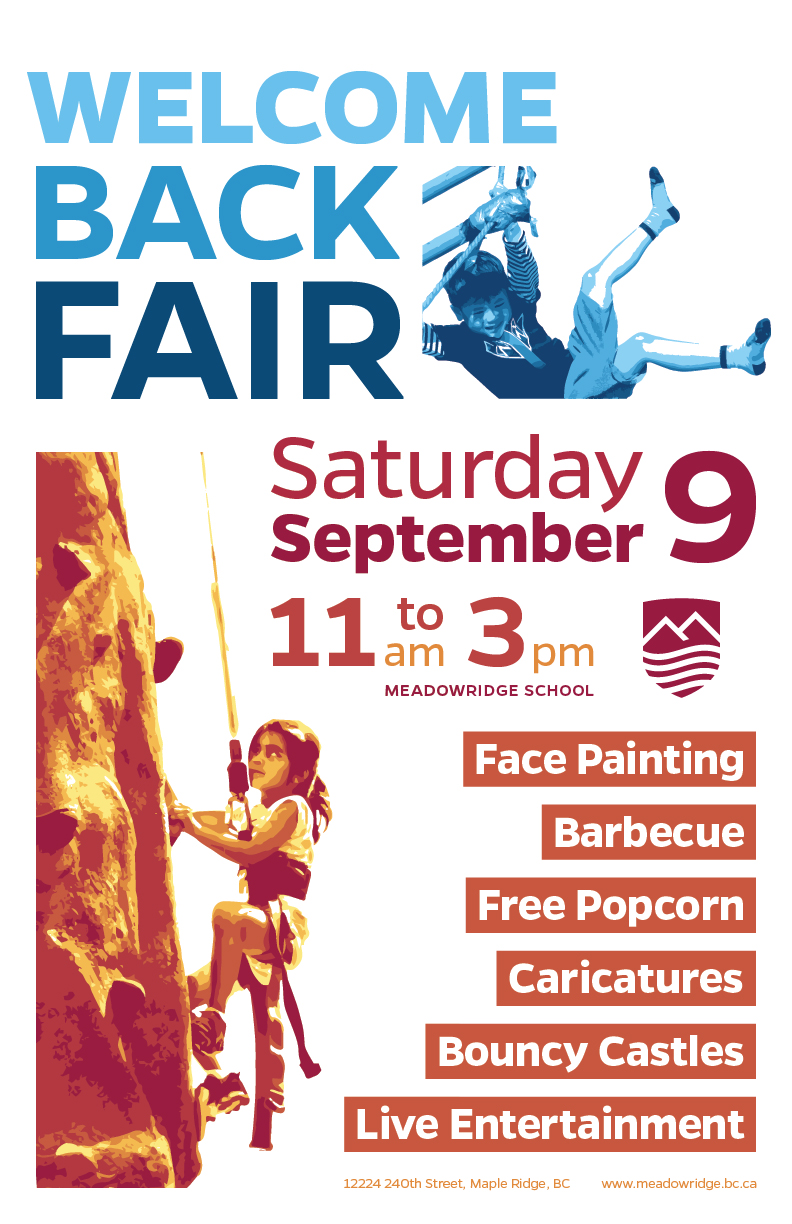
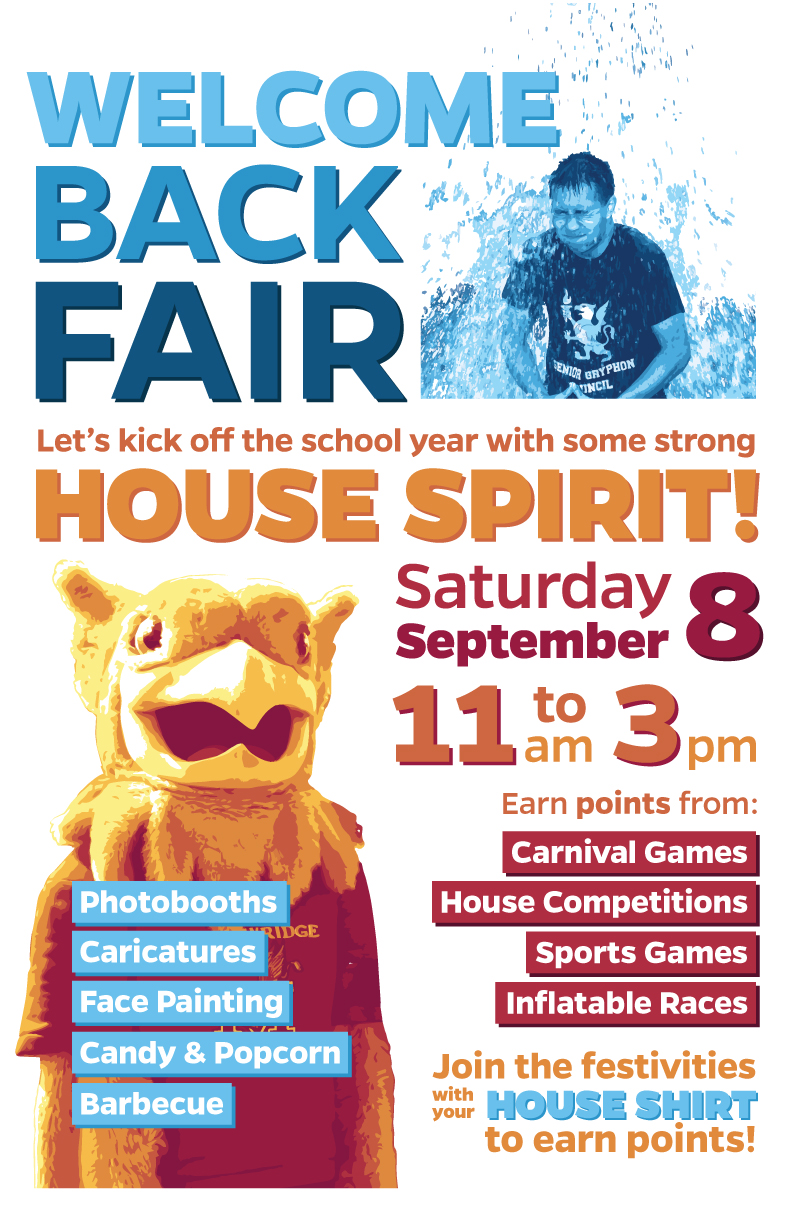
Updated for grad

diff --git a/index.html b/index.html
@@ -37,14 +37,19 @@
 					<p>Place</p>
 				</a>
 
-				<a href='#jeti-rentals'>
-					<p>Website</p>
-					<p>Jeti Rentals</p>
+				<a href='#gryphon-cover'>
+					<p>Cover</p>
+					<p>The Gryphon</p>
 				</a>
 
 				<a href='#wbf'>
 					<p>Poster</p>
 					<p>Welcome Back Fair</p>
+				</a>
+
+				<a href='#jeti-rentals'>
+					<p>Website</p>
+					<p>Jeti Rentals</p>
 				</a>
 
 				<a href='#about'>
@@ -69,14 +74,19 @@
 							<p>Place</p>
 						</a>
 
-						<a class='med-project' href='#jeti-rentals'>
-							<p>Website</p>
-							<p>Jeti Rentals</p>
+						<a class='med-project' href='#gryphon-cover'>
+							<p>Cover</p>
+							<p>The Gryphon</p>
 						</a>
 
 						<a class='med-project' href='#wbf'>
 							<p>Poster</p>
 							<p>Welcome Back Fair</p>
+						</a>
+
+						<a class='med-project' href='#jeti-rentals'>
+							<p>Website</p>
+							<p>Jeti Rentals</p>
 						</a>
 					</div>
 				</div>
@@ -106,14 +116,19 @@
 							<p>Place</p>
 						</a>
 
-						<a href='#jeti-rentals-thin'>
-							<p>Website</p>
-							<p>Jeti Rentals</p>
+						<a href='#gryphon-cover-thin'>
+							<p>Cover</p>
+							<p>The Gryphon</p>
 						</a>
 
 						<a href='#wbf-thin'>
 							<p>Poster</p>
 							<p>Welcome Back Fair</p>
+						</a>
+
+						<a href='#jeti-rentals-thin'>
+							<p>Website</p>
+							<p>Jeti Rentals</p>
 						</a>
 
 						<a href='#about-thin'>
@@ -181,6 +196,32 @@
 					</figure>
 				</section>
 
+				<section id='gryphon-cover'>
+					<figure>
+						<div class='img-row'>
+							<div class='img-column'>
+								<img src='img/cover.jpg'>
+							</div>
+							<div class='img-column'>
+								<img src='img/back.jpg'>
+							</div>
+						</div>
+						<figcaption>Cover &amp; Back</figcaption>
+					</figure>
+
+					<!--
+					<figure>
+						<img src='img/printed.jpg'>
+						<figcaption>Printed Magazine</figcaption>
+					</figure>
+					-->
+				</section>
+
+				<section id='wbf'>
+					<!-- no figure here because only one image -->
+					<img class='bordered-img' src='img/wbf-poster.jpg'>
+				</section>
+
 				<section id='jeti-rentals'>
 					<figure>
 						<div class='img-row'>
@@ -209,17 +250,12 @@
 					</figure>
 				</section>
 
-				<section id='wbf'>
-					<!-- no figure here because only one image -->
-					<img class='bordered-img' src='img/wbf-poster.jpg'>
-				</section>
-
 				<section id='about'>
+					<!-- TODO ensure the same as below -->
 					<h2>Hi, I'm Thomas Laurie</h2>
-					<p>I’m a generalist with experience in web and app development, visual design, 3D modeling, and coding, though I’m still dipping my toes in different fields in search of my passion. </p>
-					<p>My two biggest strengths are communicative design and my technical understanding of web/app interfaces.</p>
-					<p>This term I've decided to embrace these two directions by furthering my studies in speculative design and PHP so that I have both the ideological foundation and ability to execute an upcoming web/app project - start to finish, front to back.</p>
-					<p>It’s my goal to find a profession where I can be a creative force, where I can have the freedom to broaden my experience and deepen my expertise in the field.</p>
+					<p>I'm a recent graduate with skills in web/app development, visual representation, and 3D modelling. It is my goal to find a career where I can be a creative force.</p>
+					<p>Lately I've been motivated to fulfill my own user-needs in today's app landscape. These needs tend to be music related, ranging from discovery and listening, to organization and metadata. I have enough confidence that with enough time and effort I could personally build my envisioned solutions.</p>
+					<p>Currently I've been working on one of these ideas as a personal project, additionally aiming to tie up my educational learnings into a polished, full-stack web app. With this I want to express my ability to code, debug, and understand technical systems, and showcase my design skills, understanding of user experience, and artistic creativity. I've chosen to not just rely on what I already know but also to seek out the best tools for my use case, this has lead me to pick up Node, PostgreSQL, Vue, and a larger knowledge of modern JavaScript.</p>
 				</section>
 			</div>
 		</div>
@@ -269,9 +305,51 @@
 					</div>
 
 					<p>Place was a mobile application for new home buyers designed to reduce the workload of searching home listings by parsing data based on user settings and then presenting matches to the user in a hot-or-not fashion.</p>
-					<p>My group and I ideated and designed the front-end functionality of the app using Proto.io where my main contribution to the project was the visual design of the app.</p>
+					<p>My group and I ideated and designed the front-end functionality of the app using Proto.io, my main contribution to the project was the visual design of the app.</p>
 					<p>Through user research we found that home buyers faced a much larger workload if they want to know what amenities are near each listing. Classifieds sites give information about the interior of the home but seldom give information about the place surrounding the home. Manually searching maps for this information greatly increases the workload. Our solution was to flip the harder area-searching workload onto the app and let the users do the more interactive sorting of listings, ones that they know will be in a place that meets their needs.</p>
 					<p>In this project I learned how to optimize task-flows by designing interfaces to better match a user’s mental model of the system and decrease the number of actions required to perform a task.</p>
+				</section>
+
+				<section id='gryphon-cover-thin'>
+					<h3>Magazine Cover</h3>
+					<h2>The Gryphon</h2>
+
+					<div class='merge slider'>
+						<button class='prev'><div></div><div></div><div></div><div></div></button>
+						<button class='next'><div></div><div></div><div></div><div></div></button>
+						<div class='hider'>
+							<div class='sliderTray'>
+								<img src='img/cover.jpg'>
+								<img src='img/back.jpg'>
+								<!-- TODO printed photo-->
+							</div>  
+						</div>
+					</div>
+
+					<p>This cover was for a school magazine called The Gryphon printed three times a year and mailed to over 300 families and friends of the school. This volume was to highlight the school's outdoor education program, therefore my final iteration resembles the motion of aiding growth, which links together the slogan, education, and gardening (a common outdoor activity for the primary school students).</p>
+					<p>I was individually assigned to create graphics for the cover and back. Expectations where fairly open ended where I was only prompted with the theme, slogan, and examples from previous volumes.</p>
+					<p>It was completed on the side over the course of about three weeks. I iterated the design through refined sketches, playing with composition, flow, and typography. Once confident, I moved to Illustrator where I chose a rough-vector style that would allow me to blend image-traces (dirt textures, background spatters) with drawn shapes (hands, plant). The color count was reduced to unify each element in the image as well to match the simplicity of the vector style. I wanted the cover and back to be semi-continuous so the background was drawn across both pages.</p>
+					<p>This project gave me an opportunity to revisit my artistic side that I hadn't been exercising in my design program. I was able to apply my learning of the design process to the actions of sketching, refining, and eventually brining a graphic to its finalized polished form.</p>
+				</section>
+
+				<section id='wbf-thin'>
+					<h3>Promotional Poster</h3>
+					<h2>Welcome Back Fair</h2>
+
+					<div class='merge slider'>
+						<button class='prev'><div></div><div></div><div></div><div></div></button>
+						<button class='next'><div></div><div></div><div></div><div></div></button>
+						<div class='hider'>
+							<div class='sliderTray'>
+								<img src='img/wbf-poster.jpg'>
+							</div>  
+						</div>
+					</div>
+
+					<p>This poster was a promotional piece for a fair hosted by Meadowridge School.</p>
+					<p>While the information requirements were firm the aesthetic was entirely of my creation.</p>
+					<p>I created the entire poster using photos sourced from our internal archive and Photoshop and Illustrator to do editing and typographic work.</p>
+					<p>I was asked to refresh this poster in 2018 after completing it the first time in 2017. The first time I was obsessing over minor details that didn't matter and had to learn how to step back and settle on a final version. This time around I was able to quickly do a review over the entire document, only having to edit the graphics, content, and layout rather than create something original entirely.</p>
 				</section>
 
 				<section id='jeti-rentals-thin'>
@@ -293,42 +371,22 @@
 						</div>
 					</div>
 
-					<p>Jeti Rentals was a website project where the goal was to create several front-end pages that would help a visitor accomplish different tasks, each of these tasks would guide the visitor towards the purchase of a service – Jet Ski rentals.</p>
+					<p>Jeti Rentals was a course project where the goal was to create several front-end web-pages that would help a visitor accomplish different tasks, each of these tasks would guide the visitor towards the purchase of a service – Jet Ski rentals.</p>
 					<p>My partner and I contributed equally to the entire process which involved wireframing, page flow, and functionality using Axure, styling using Illustrator, and scripting using Git to maintain version control.</p>
 					<p>I was fairly new to HTML/CSS and Git when building this site and most of the problems stemmed from converting static wireframe elements into web-coded elements that were functional and responsive. The real challenge here was developing a workflow for debugging an issue, searching references for solutions, then testing the elements to ensure that they work.</p>
 					<p>This project gave me the opportunity to learn how to build the front-end of a site from the ground up. I solidified my understanding of HTML, CSS, optimization techniques, Git collaboration, and debugging.</p>
 				</section>
 
-				<section id='wbf-thin'>
-					<h3>Promotional Poster</h3>
-					<h2>Welcome Back Fair</h2>
-
-					<div class='merge slider'>
-						<button class='prev'><div></div><div></div><div></div><div></div></button>
-						<button class='next'><div></div><div></div><div></div><div></div></button>
-						<div class='hider'>
-							<div class='sliderTray'>
-								<img src='img/wbf-poster.jpg'>
-							</div>  
-						</div>
-					</div>
-
-					<p>This poster was a promotional piece for a fair hosted by Meadowridge School which I was working for during the summer. I created the entire poster using photos sourced from our internal archive and Photoshop and Illustrator to do editing and typographic work.</p>
-					<p>From past projects I’ve made it a habit to strive for perfection through details and to ensure that each design decision has a justification behind it. This was actually a personal challenge to overcome because the poster was fairly low-impact and didn’t have many guidelines to start with.</p>
-					<p>I spent some time meddling over insignificant details but eventually learned to let go as I realized that some projects require a more heuristic approach.</p>
-				</section>
-
 				<section id='about-thin'>
 					<div class='merge'>
 						<h2>Hi, I'm Thomas Laurie</h2>
-						<p>I’m a generalist with experience in web and app development, visual design, 3D modeling, and coding, though I’m still dipping my toes in different fields in search of my passion. </p>
-						<p>My two biggest strengths are communicative design and my technical understanding of web/app interfaces.</p>
-						<p>This term I've decided to embrace these two directions by furthering my studies in speculative design and PHP so that I have both the ideological foundation and ability to execute an upcoming web/app project - start to finish, front to back.</p>
-						<p>It’s my goal to find a profession where I can be a creative force, where I can have the freedom to broaden my experience and deepen my expertise in the field.</p>
+						<p>I'm a recent graduate with skills in web/app development, visual representation, and 3D modelling. It is my goal to find a career where I can be a creative force.</p>
+						<p>Lately I've been motivated to fulfill my own user-needs in today's app landscape. These needs tend to be music related, ranging from discovery and listening, to organization and metadata. I have enough confidence that with enough time and effort I could personally build my envisioned solutions.</p>
+						<p>Currently I've been working on one of these ideas as a personal project, additionally aiming to tie up my educational learnings into a polished, full-stack web app. With this I want to express my ability to code, debug, and understand technical systems, and showcase my design skills, understanding of user experience, and artistic creativity. I've chosen to not just rely on what I already know but also to seek out the best tools for my use case, this has lead me to pick up Node, PostgreSQL, Vue, and a larger knowledge of modern JavaScript.</p>
 					</div>
 
 					<h2>You Can Find Me Here:</h2>
-					<a href="mailto:tlaurie@sfu.ca">tlaurie@sfu.ca</a>
+					<a href="mailto:thomas.laurie@outlook.com">thomas.laurie@outlook.com</a>
 				</section>
 			</div>
 		</div>
@@ -339,7 +397,9 @@
 		<script src='js/main.js'></script>-->
 
 		<script src='https://ajax.googleapis.com/ajax/libs/jquery/3.2.1/jquery.min.js'></script>
-		<script>window.jQuery || document.write('<script src='jquery-3.2.1.min.js'><\/script>')</script> <!-- fallback -->
+		<script>
+			window.jQuery || document.write("<script src='jquery-3.2.1.min.js'><\/script>")
+		</script> <!-- fallback -->
 		<script src='js/main.js'></script>
 	</body>
 </html>

diff --git a/css/main.css b/css/main.css
@@ -12,9 +12,17 @@
 *, *::after, *::before { 
 	box-sizing: border-box; 
 	transition: all 0.1s ease; /* thanks sandy */
+
+	/* TODO doesnt seem to work
+	-webkit-font-smoothing: antialiased;
+	-moz-osx-font-smoothing: grayscale;
+
+	try: 
+	https://stackoverflow.com/questions/17867574/chrome-not-antialiasing-text
+	http://www.adtrak.co.uk/blog/font-face-chrome-rendering/
+
+	*/
 }
-
-
 
 html {
 	/********** Font **********/
@@ -362,7 +370,7 @@ figcaption {
 }
 
 .bordered-img {
-	border: 2px solid var(--color-light);
+	border: 1px solid var(--color-light);
 }
 
 

diff --git a/js/main.js b/js/main.js
@@ -254,7 +254,6 @@ $(document).ready(function() {
 
 							// Total = bTop + Section Scroll Position + (Progress * Adjust)
 							b.scrollTop(bTop + scroll + progress * adjust);
-							console.log(progress);
 						}
 					}
 				}
